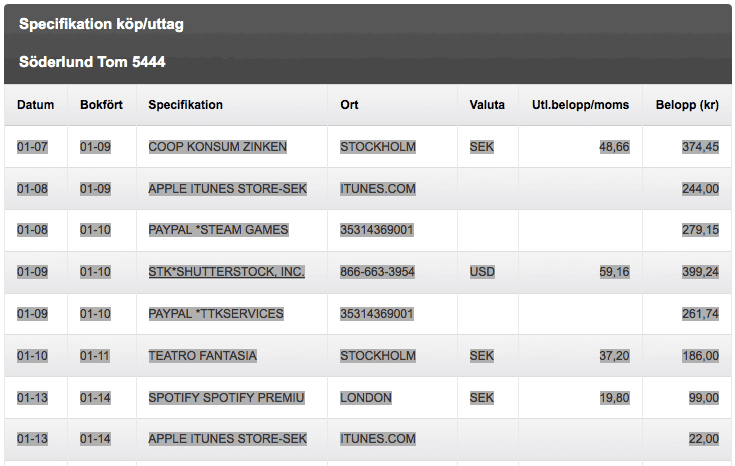
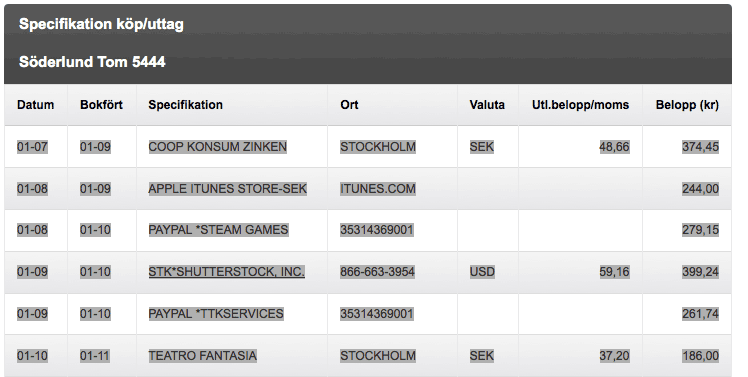
Docs 2

diff --git a/README.md b/README.md
@@ -6,26 +6,34 @@ Simple but customizable* web app that converts copied data from Eurocard.se tran
 
 or when copied to text:
 
-	04-04	04-05	
-	AMAZON WEB SERVICES
-	AWS.AMAZON.CO	USD	13,50	90,70
-	04-03	04-04	
-	PANINI
-	STOCKHOLM			41,00
-	04-03	04-04	
-	SPRING
-	STOCKHOLM	SEK	108,00	580,00
-	04-02	04-03	
+	01-07	01-09	
+	COOP KONSUM ZINKEN
+	STOCKHOLM	SEK	48,66	374,45
+	01-08	01-09	
+	APPLE ITUNES STORE-SEK
+	ITUNES.COM			244,00
+	01-08	01-10	
+	PAYPAL *STEAM GAMES
+	35314369001			279,15
+	01-09	01-10	
+	STK*SHUTTERSTOCK, INC.
+	866-663-3954	USD	59,16	399,24
+	01-09	01-10	
 	PAYPAL *TTKSERVICES
-	35314369001			156,85
+	35314369001			261,74
+	01-10	01-11	
+	TEATRO FANTASIA
+	STOCKHOLM	SEK	37,20	186,00
 
 to the more usable format:
 
 	Nr	Date	Description	Company	Receipt	Project	Category	Amount	Currency	Rate	Amount SEK	VAT	Excl. VAT	Owner
-	1	2014-04-04	Server hosting	Amazon Web Services	PDF		5250. Hyra av datorer	13.50	USD		90.70		90.70	Tomorroworld
-	2	2014-04-03	Panini					41.00	SEK*		41.00		41.00	
-	3	2014-04-03	Spring					580.00	SEK		580.00	108.00	472.00	
-	4	2014-04-02	Virtual assistant	GetFriday	PDF		4600. Underentreprenad	156.85	SEK*		156.85		156.85	Tomorroworld
+	1	2014-01-07	Food	Coop Konsum Zinken	PDF			374.45	SEK		374.45	48.66	325.79	Personal
+	2	2014-01-08	iPhone apps: 	Apple App Store	PDF		5420. Dataprogram	244.00	SEK*		244.00		244.00	Tomorroworld
+	3	2014-01-08	Games: 	Steam	PDF		5420. Dataprogram	279.15	SEK*		279.15		279.15	Tomorroworld
+	4	2014-01-09	Photos/illustrations	Shutterstock	PDF		5990. Reklam, övrigt	59.16	USD		399.24		399.24	Tomorroworld
+	5	2014-01-09	Virtual assistant	GetFriday	PDF		4600. Underentreprenad	261.74	SEK*		261.74		261.74	Tomorroworld
+	6	2014-01-10	Teatro Fantasia					186.00	SEK		186.00	37.20	148.80	
 
 ## *Configuration
 
